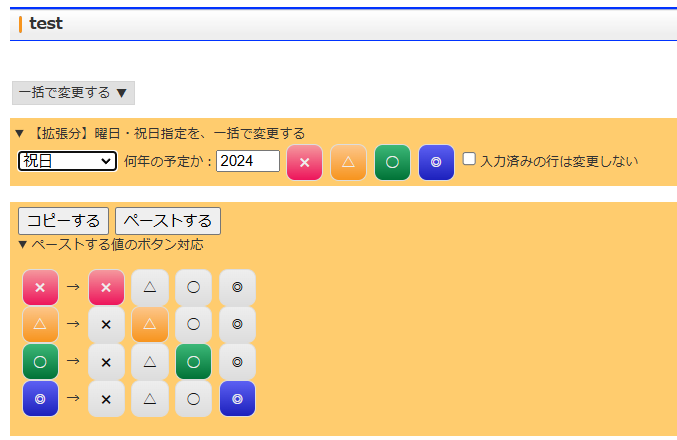
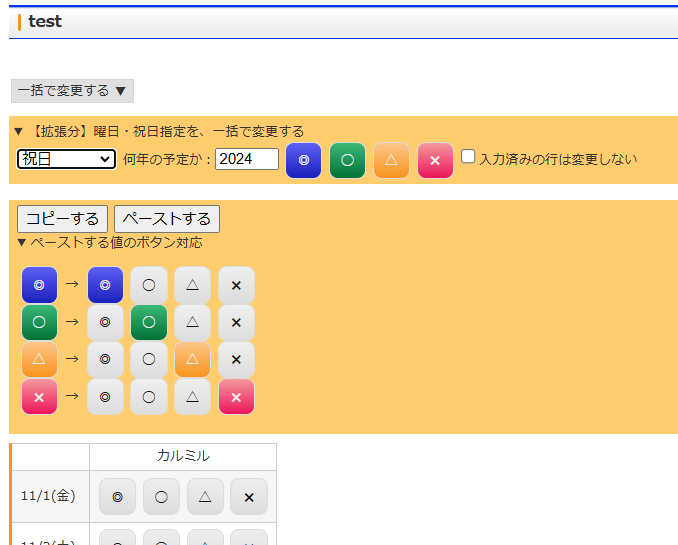
Develop (#8)
* ボタンの順番を、◎→✕に

* readmeの画像更新

* ライセンス

* アイコン追加（仮） (#7)

diff --git a/README.md b/README.md
@@ -31,3 +31,7 @@ v1.2
 - ほかの伝助イベントから、既に入力した予定（○とか✕とか）をコピペ
 
 ![曜日入力](./img/list.png)
+
+# Lisence
+
+This project is licensed under the MIT License, see the LICENSE.txt file for details
